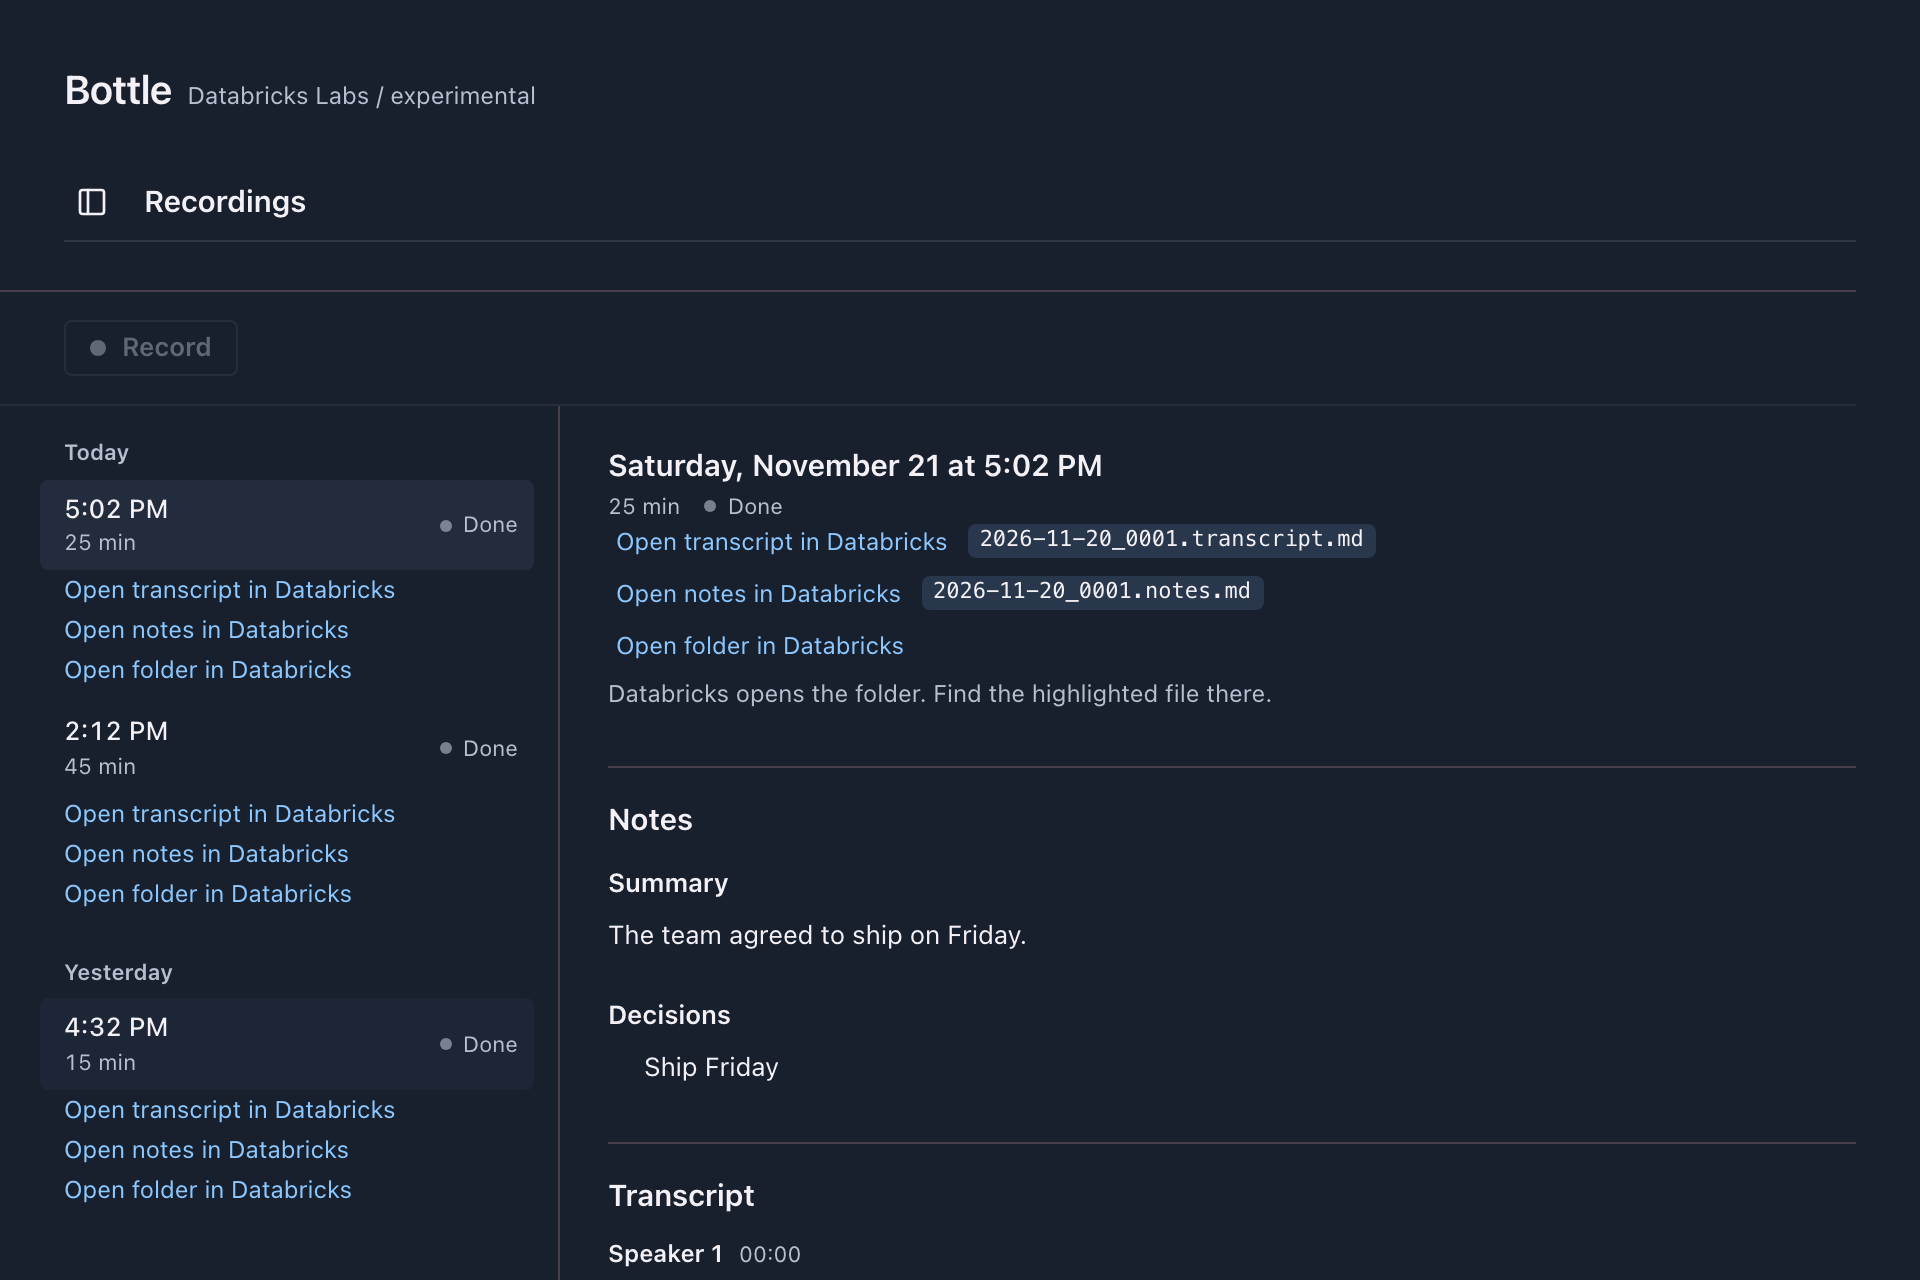
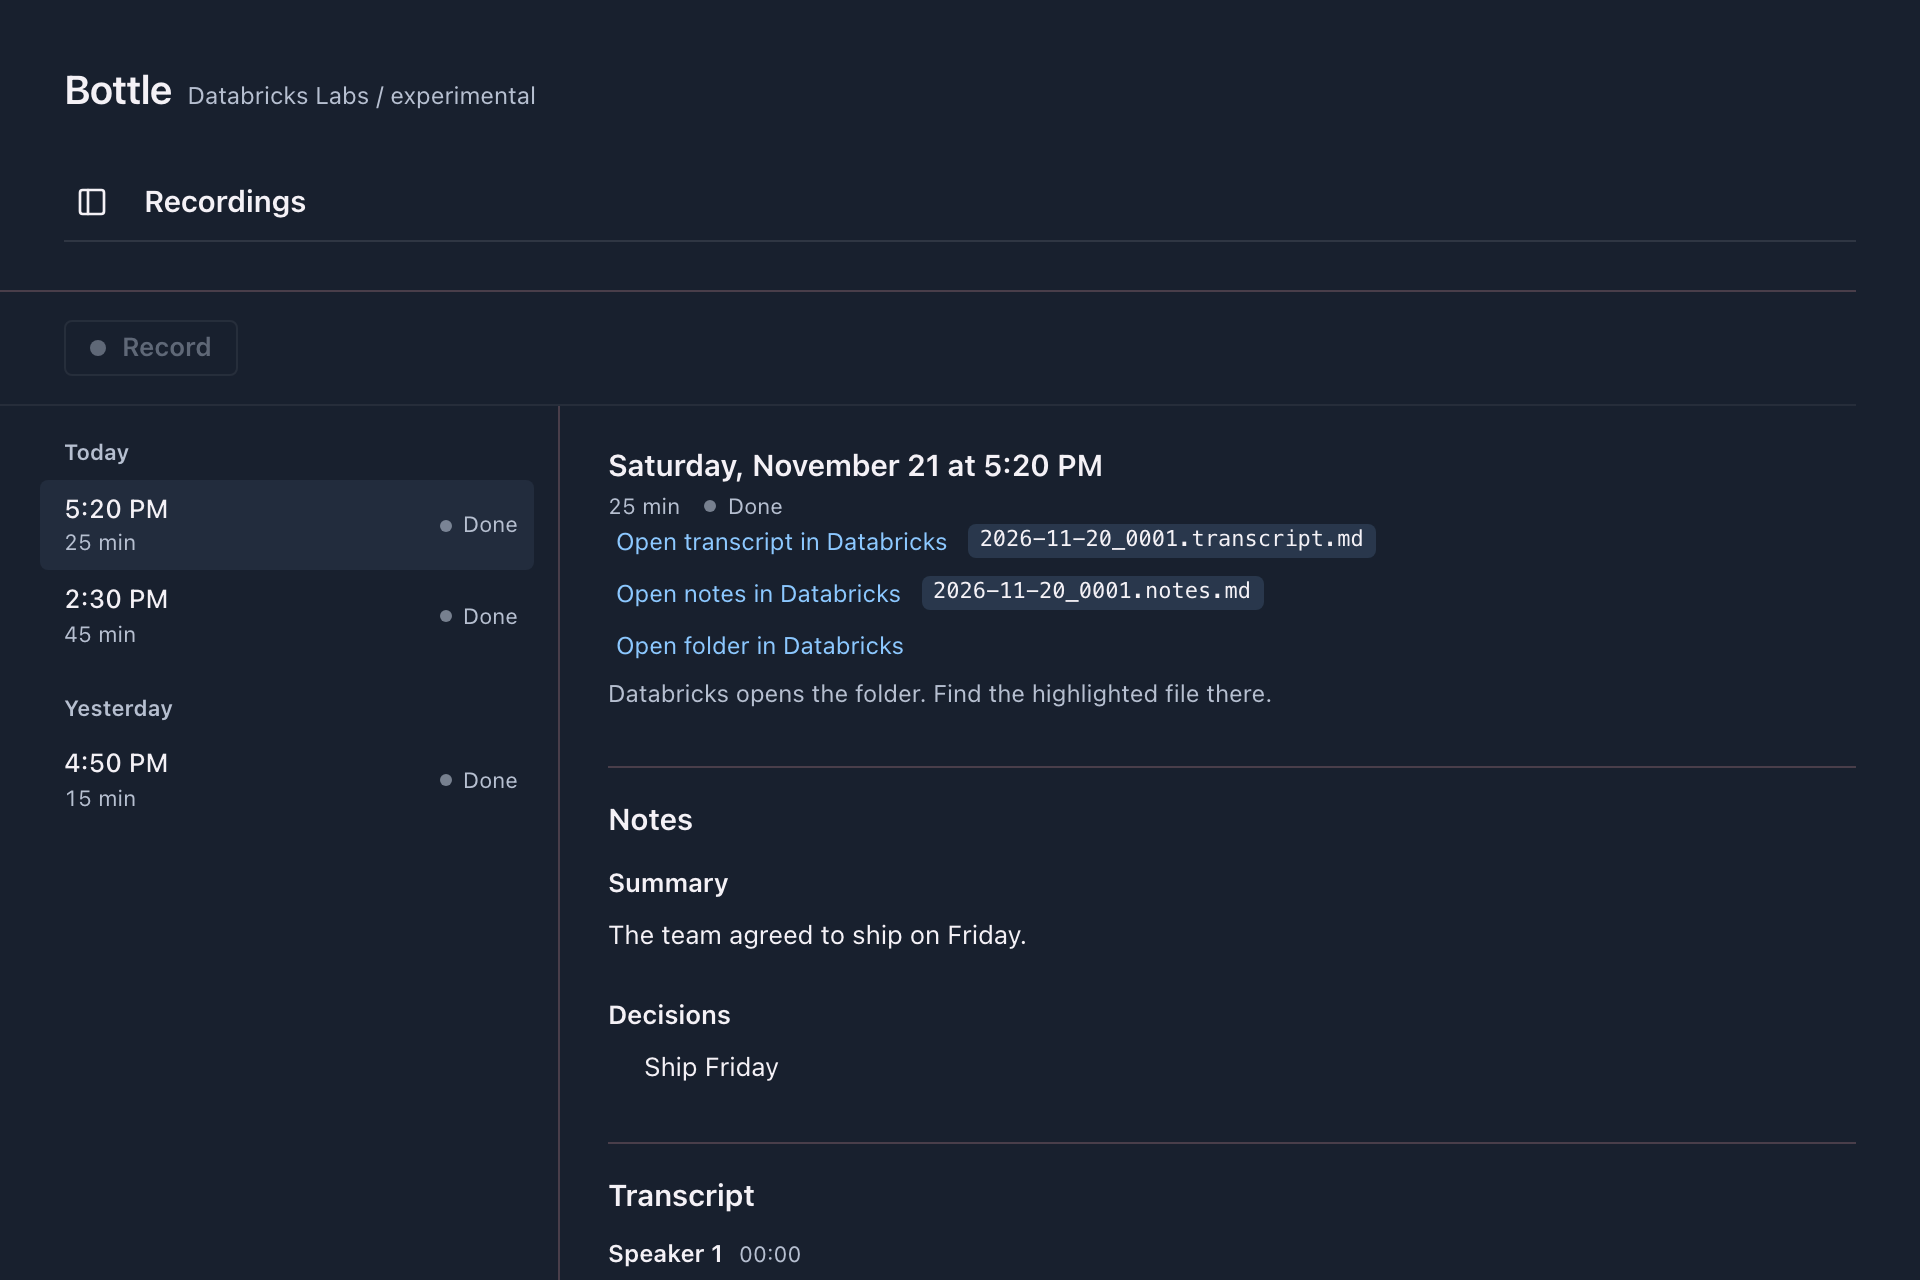
fix(recording): file links in the detail pane only; stop Upload all on a failed result
- Remove the link buttons from the list rows (invalid ARIA in a listbox).
- Upload all stops on a failed result with a storage or sign-in kind.
- With no storage, a live recording shows in the list with a short warning,
  and waiting rows say only Not uploaded (the banner explains).

diff --git a/src/views/hub/Recordings.tsx b/src/views/hub/Recordings.tsx
@@ -9,7 +9,6 @@
  *   Databricks". The core opens that link; the view never builds or opens a URL.
  */
 import {
-  Fragment,
   useCallback,
   useEffect,
   useId,
@@ -494,62 +493,57 @@ export function Recordings({
                 {g.label}
               </div>
               {g.rows.map((r) => (
-                <Fragment key={r.id}>
-                  <div
-                    id={`${baseId}-${r.id}`}
-                    role="option"
-                    aria-selected={r === selected}
-                    data-active={r === current || undefined}
-                    data-recording-row={r.id}
-                    className="rec-row"
-                    onClick={() => {
-                      setSelectedId(r.id);
-                      listRef.current?.focus();
-                    }}
-                  >
-                    <span className="rec-row-main">
-                      <span className="rec-row-time">{timeOf(r.startedAt)}</span>
-                      <span className="rec-row-len">
-                        {lengthOf(r.durationS)}
-                        {r.error && (r.onDeviceOnly || r.status === 'failed') && (
+                <div
+                  key={r.id}
+                  id={`${baseId}-${r.id}`}
+                  role="option"
+                  aria-selected={r === selected}
+                  data-active={r === current || undefined}
+                  data-recording-row={r.id}
+                  className="rec-row"
+                  onClick={() => {
+                    setSelectedId(r.id);
+                    listRef.current?.focus();
+                  }}
+                >
+                  <span className="rec-row-main">
+                    <span className="rec-row-time">{timeOf(r.startedAt)}</span>
+                    <span className="rec-row-len">
+                      {lengthOf(r.durationS)}
+                      {r.error &&
+                        (r.onDeviceOnly || r.status === 'failed' || r.status === 'recording') && (
                           <span className="rec-row-reason" data-recording-reason>
                             {' · '}
                             {r.error.text}
                           </span>
                         )}
-                      </span>
                     </span>
-                    <span className="rec-row-side">
-                      {r.batch ? (
+                  </span>
+                  <span className="rec-row-side">
+                    {r.batch ? (
+                      <span
+                        className="rec-status"
+                        data-status={
+                          r.batch === 'done'
+                            ? 'done'
+                            : r.batch === 'failed'
+                              ? 'failed'
+                              : 'uploading'
+                        }
+                        data-recording-batch={r.batch}
+                      >
                         <span
-                          className="rec-status"
-                          data-status={
-                            r.batch === 'done'
-                              ? 'done'
-                              : r.batch === 'failed'
-                                ? 'failed'
-                                : 'uploading'
-                          }
-                          data-recording-batch={r.batch}
-                        >
-                          <span
-                            className="rec-status-dot"
-                            aria-hidden="true"
-                            data-busy={r.batch === 'running' || undefined}
-                          />
-                          {BATCH_LABEL[r.batch]}
-                        </span>
-                      ) : (
-                        <Status row={r} />
-                      )}
-                    </span>
-                  </div>
-                  {r.status === 'done' && !r.onDeviceOnly && (
-                    <div role="none" className="rec-row-links">
-                      <FileLinks row={r} />
-                    </div>
-                  )}
-                </Fragment>
+                          className="rec-status-dot"
+                          aria-hidden="true"
+                          data-busy={r.batch === 'running' || undefined}
+                        />
+                        {BATCH_LABEL[r.batch]}
+                      </span>
+                    ) : (
+                      <Status row={r} />
+                    )}
+                  </span>
+                </div>
               ))}
             </div>
           ))}

diff --git a/src/views/hub/Recordings.test.tsx b/src/views/hub/Recordings.test.tsx
@@ -333,11 +333,7 @@ describe('storage banner, Upload all and file links (hub)', () => {
     const onSettings = vi.fn();
     const { el } = await render(<Recordings active now={() => NOW} onOpenSettings={onSettings} />);
     await tauri.emitTo('hub', HUB_RECORDINGS_EVENT, {
-      rows: [
-        waiting('a', 1, {
-          error: { text: RECORDING_TEXT.noMyFiles, action: { label: 'x', target: 'settings' } },
-        }),
-      ],
+      rows: [waiting('a', 1)],
       storageProblem: { reason: RECORDING_TEXT.noMyFiles, canUpload: false },
       uploadAll: { running: false, total: 1, done: 0, failed: 0 },
     });
@@ -346,8 +342,9 @@ describe('storage banner, Upload all and file links (hub)', () => {
     expect(b?.textContent).toContain('No My Files on this workspace. Choose a volume in Settings.');
     await click(b?.querySelector('button'));
     expect(onSettings).toHaveBeenCalledTimes(1);
-    // The failed row shows the real reason, and Upload all waits for the storage.
-    expect(el.querySelector('[data-recording-reason]')?.textContent).toContain('No My Files');
+    // The row says only "Not uploaded"; the banner explains.
+    expect(el.querySelector('[data-recording-row="a"]')?.textContent).toContain('Not uploaded');
+    expect(el.querySelector('[data-recording-row="a"]')?.textContent).not.toContain('My Files');
     expect(
       el.querySelector<HTMLButtonElement>('[data-recording-upload-all] button')?.disabled,
     ).toBe(true);
@@ -382,26 +379,20 @@ describe('storage banner, Upload all and file links (hub)', () => {
     expect(chips).toEqual(['Uploaded', 'Uploading…']);
   });
 
-  it('[REC-L3] a done row and its detail link to the transcript, the notes and the folder', async () => {
+  it('[REC-L3] only the detail pane links to the transcript, the notes and the folder', async () => {
     const { el } = await render(<Recordings active now={() => NOW} />);
     await tauri.emitTo('hub', HUB_RECORDINGS_EVENT, list);
-    const rowLinks = el.querySelector('.rec-row-links');
-    expect(rowLinks?.textContent).toContain('Open transcript in Databricks');
-    expect(rowLinks?.textContent).toContain('Open notes in Databricks');
-    expect(rowLinks?.textContent).toContain('Open folder in Databricks');
-    // Only the done row has them, and none sits inside an option.
-    expect(el.querySelectorAll('.rec-row-links')).toHaveLength(1);
-    expect(el.querySelector('[role="option"] button')).toBeNull();
-    await click(rowLinks?.querySelector('[data-recording-link="transcript"]'));
-    expect(emits().at(-1)).toEqual({ action: 'recordings.open', id: 'r1', target: 'transcript' });
-    await click(rowLinks?.querySelector('[data-recording-link="notes"]'));
-    expect(emits().at(-1)).toEqual({ action: 'recordings.open', id: 'r1', target: 'notes' });
-
+    // The list stays clean: no control inside the listbox at all.
+    expect(el.querySelector('.rec-row-links')).toBeNull();
+    expect(el.querySelector('[role="listbox"] button')).toBeNull();
     await click(el.querySelector('[data-recording-row="r1"]'));
     await tauri.emitTo('hub', HUB_RECORDING_DETAIL_EVENT, detail);
     const d = el.querySelector('[data-recording-detail]');
     expect(d?.querySelector('[data-recording-link="transcript"]')?.textContent).toBe(
       'Open transcript in Databricks',
+    );
+    expect(d?.querySelector('[data-recording-link="notes"]')?.textContent).toBe(
+      'Open notes in Databricks',
     );
     expect(d?.querySelector('[data-recording-file="transcript"]')?.textContent).toBe(
       '2026-11-18_0900.transcript.md',
@@ -409,6 +400,10 @@ describe('storage banner, Upload all and file links (hub)', () => {
     expect(d?.querySelector('[data-recording-file="notes"]')?.textContent).toBe(
       '2026-11-18_0900.notes.md',
     );
+    await click(d?.querySelector('[data-recording-link="transcript"]'));
+    expect(emits().at(-1)).toEqual({ action: 'recordings.open', id: 'r1', target: 'transcript' });
+    await click(d?.querySelector('[data-recording-link="notes"]'));
+    expect(emits().at(-1)).toEqual({ action: 'recordings.open', id: 'r1', target: 'notes' });
     await click(d?.querySelector('[data-recording-link="folder"]'));
     expect(emits().at(-1)).toEqual({ action: 'recordings.open', id: 'r1', target: 'folder' });
   });

diff --git a/src/brain/recording-wiring.ts b/src/brain/recording-wiring.ts
@@ -206,6 +206,9 @@ function inVolume(r: RecSummary): boolean {
   );
 }
 
+/** Error kinds that hit every recording alike: Upload all stops and says why. */
+const STOP_KINDS = ['no_storage', 'volume_permission', 'auth', 'network'];
+
 /** Not uploaded, or failed at the upload step: Upload all sends it. */
 export function needsUpload(r: RecSummary): boolean {
   if (r.onDeviceOnly) return true;
@@ -309,15 +312,14 @@ export function wireRecording(bus: BrainBus, deps: RecordingWireDeps): () => voi
     const out: HubRecordings = {
       rows: sorted.map((r) => {
         const row = rowOf(r);
-        if (needsUpload(r)) {
-          row.needsUpload = true;
-          // The real reason, not the generic "couldn't upload" text.
-          if (problem && !problem.canUpload)
-            row.error = {
-              text: problem.reason,
-              action: { label: RECORDING_TEXT.chooseWhere, target: 'settings' },
-            };
-        }
+        // The banner explains why; a waiting row only says "Not uploaded".
+        if (needsUpload(r)) row.needsUpload = true;
+        // A call that records now, with nowhere to upload: a short local-only warning.
+        if (r.status === 'recording' && problem && !problem.canUpload)
+          row.error = {
+            text: RECORDING_TEXT.localOnlyRow,
+            action: { label: RECORDING_TEXT.chooseWhere, target: 'settings' },
+          };
         const b = batch?.state.get(r.id);
         if (b) row.batch = b;
         return row;
@@ -481,11 +483,19 @@ export function wireRecording(bus: BrainBus, deps: RecordingWireDeps): () => voi
       let stop = false;
       try {
         const r = await api.retry(id);
-        if (isObj(r) && r['status'] === 'failed') result = 'failed';
+        if (isObj(r) && r['status'] === 'failed') {
+          result = 'failed';
+          // A failed result with a storage or sign-in kind stops the batch like a throw.
+          const kind = typeof r['errorKind'] === 'string' ? r['errorKind'] : '';
+          if (STOP_KINDS.includes(kind)) {
+            stop = true;
+            showError({ error: kind });
+          }
+        }
       } catch (e) {
         result = 'failed';
         // A storage or sign-in fault hits every recording alike: stop and say why.
-        if (['no_storage', 'volume_permission', 'auth', 'network'].includes(codeOf(e))) {
+        if (STOP_KINDS.includes(codeOf(e))) {
           stop = true;
           showError(e);
         }

diff --git a/src/brain/recording-storage.test.ts b/src/brain/recording-storage.test.ts
@@ -114,10 +114,9 @@ describe('storage check (brain)', () => {
     await flush();
     const l = t.lists().at(-1);
     expect(l?.storageProblem).toEqual({ reason: RECORDING_TEXT.noMyFiles, canUpload: false });
-    expect(l?.rows[0]?.error?.text).toBe(
-      'No My Files on this workspace. Choose a volume in Settings.',
-    );
-    expect(l?.rows[0]?.error?.action?.target).toBe('settings');
+    // The banner carries the reason; the waiting row has no copy of it.
+    expect(l?.rows[0]?.error).toBeUndefined();
+    expect(l?.rows[0]?.needsUpload).toBe(true);
   });
 
   it('[REC-L1] My Files that resolves, or a chosen volume, is no problem', async () => {
@@ -253,6 +252,33 @@ describe('Upload all (brain)', () => {
     t.click({ action: 'recordings.upload_all' });
     await flush();
     expect(t.api.retry).toHaveBeenCalledTimes(2);
+  });
+
+  it('[REC-L2] a failed result with a storage kind stops the batch and shows why', async () => {
+    const t = setup({ rows: [local('a', 1), local('b', 2)] });
+    t.api.retry.mockResolvedValueOnce({ status: 'failed', errorKind: 'volume_permission' });
+    t.click({ action: 'recordings.ready' });
+    await flush();
+    t.click({ action: 'recordings.upload_all' });
+    await flush();
+    expect(t.api.retry).toHaveBeenCalledTimes(1);
+    expect(t.model()?.error?.text).toContain("can't write to this volume");
+  });
+
+  it('[REC-L1] a call that records now, with no storage, is a recording row with a short local-only warning', async () => {
+    const live: RecSummary = {
+      id: 'live',
+      name: 'live',
+      startedAt: 5,
+      durationS: 0,
+      status: 'recording',
+    };
+    const t = setup({ myFiles: null, rows: [live] });
+    t.click({ action: 'recordings.ready' });
+    await flush();
+    const r = t.lists().at(-1)?.rows[0];
+    expect(r?.status).toBe('recording');
+    expect(r?.error?.text).toBe(RECORDING_TEXT.localOnlyRow);
   });
 
   it('[REC-L2] a storage fault stops the batch and shows the reason', async () => {

diff --git a/src/shared/recording-view.ts b/src/shared/recording-view.ts
@@ -70,6 +70,7 @@ export const RECORDING_TEXT = {
   /** My Files does not resolve and no volume is set (the probe of ADR 0103 decision 7). */
   noMyFiles: 'No My Files on this workspace. Choose a volume in Settings.',
   /** Shown after a recording starts while storage is unusable. The audio stays local. */
+  localOnlyRow: 'Saved on this device only for now.',
   keepsLocal: 'Until then, Bottle keeps the audio on this device.',
 } as const;
 

diff --git a/src/views/hub/hub.css b/src/views/hub/hub.css
@@ -1843,11 +1843,6 @@
     gap: 4px;
   }
 
-  /* Done rows: the three links sit under the row (outside the option: no control in it). */
-  .rec-row-links {
-    padding: 0 8px 6px 8px;
-  }
-
   .rec-links {
     display: flex;
     flex-wrap: wrap;

diff --git a/crates/mog-core/tests/recording_cloud_contract.rs b/crates/mog-core/tests/recording_cloud_contract.rs
@@ -483,6 +483,16 @@ fn rec_component_list_without_storage_shows_the_device_only_recordings_newest_fi
     assert_eq!(rows[0]["id"], "2026-11-20_1000");
     assert_eq!(rows[0]["onDeviceOnly"], true);
     assert_eq!(rows[0]["errorKind"], "upload_failed");
+    // A call that records now shows as recording, not as a failed upload.
+    let local = Arc::new(FakeLocal::with_active(
+        vec![("2026-11-20_1000".to_owned(), 2_000)],
+        &["2026-11-20_1000"],
+    ));
+    let (c2, _, _) = component_with(&http, None, local, Arc::new(|| 1_795_100_700_000i64));
+    let v2 = c2
+        .call("recording_list", json!({"profile":"fake-home"}))
+        .unwrap();
+    assert_eq!(v2[0]["status"], "recording");
     // Retry still needs a storage: the brain shows why.
     let e = c
         .call(

diff --git a/crates/mog-core/src/recording_cloud/contract.rs b/crates/mog-core/src/recording_cloud/contract.rs
@@ -1097,8 +1097,15 @@ impl RecordingCloud for CloudAdapter {
             .local
             .names()
             .into_iter()
-            .filter(|(name, _)| !active.contains(name) && !self.in_flight(name))
-            .filter_map(|(name, started)| Self::local_only_summary(&name, started))
+            .filter(|(name, _)| !self.in_flight(name))
+            .filter_map(|(name, started)| {
+                // A call that records now shows as recording, not as a failed upload.
+                if active.contains(&name) {
+                    Self::recording_row(&name, started)
+                } else {
+                    Self::local_only_summary(&name, started)
+                }
+            })
             .collect();
         out.sort_by(|a, b| {
             b.started_at_ms
